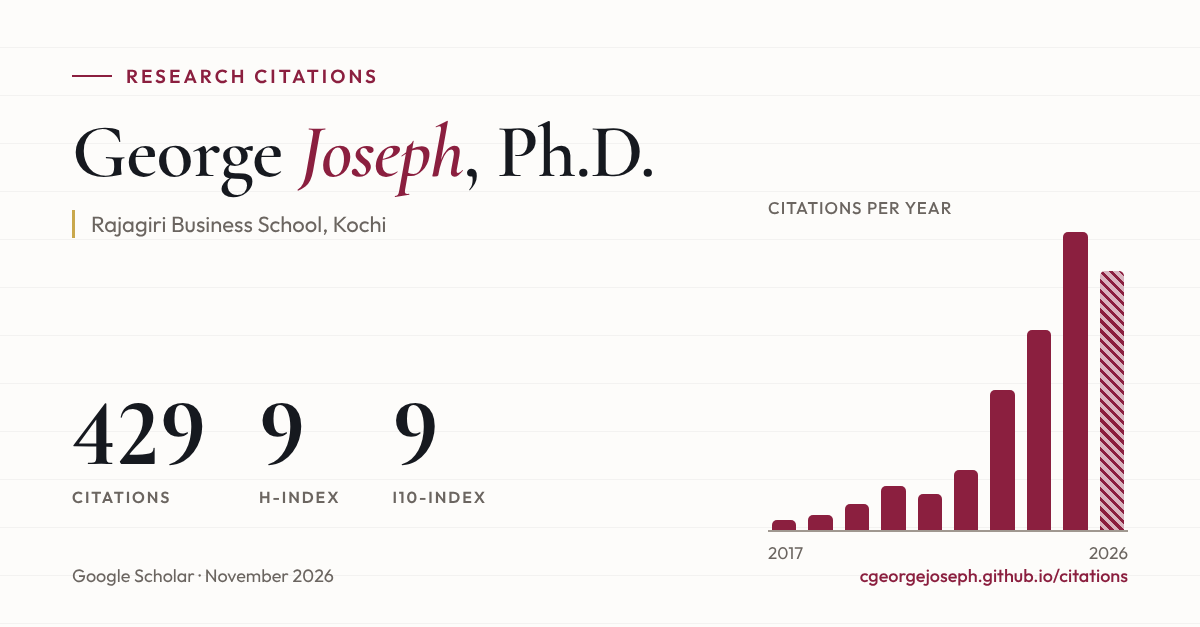
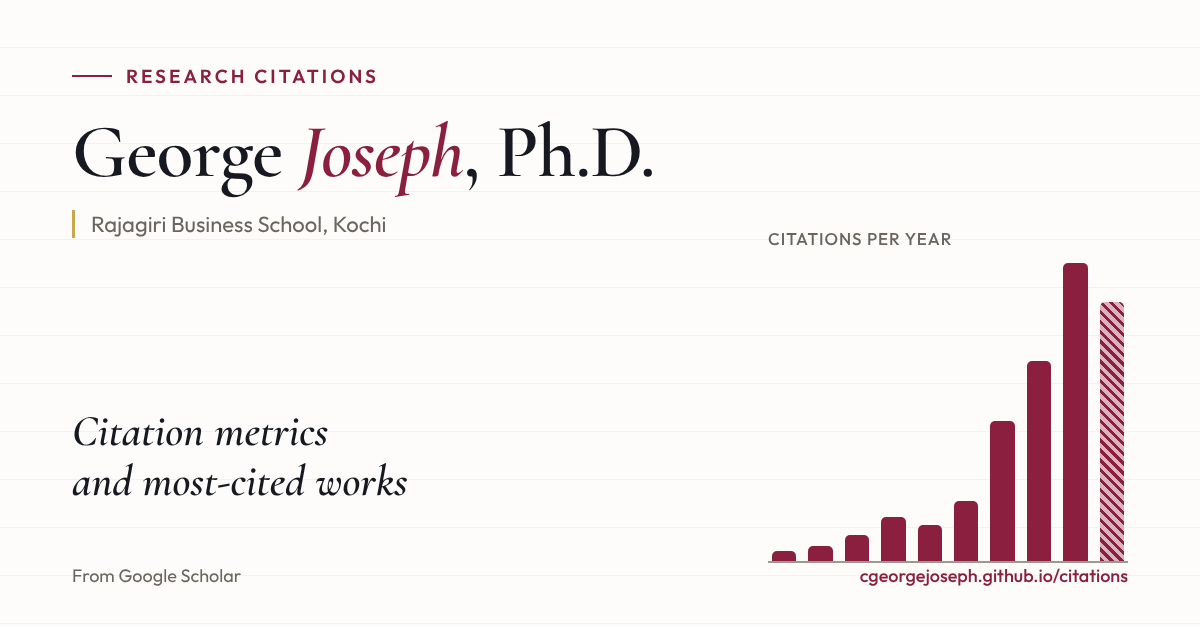
Make LinkedIn preview card number-free
Claude-Session: https://claude.ai/code/session_01NrjN6PAEctgUKyzytdnX99

diff --git a/citations/index.html b/citations/index.html
@@ -6,10 +6,10 @@
 <meta property="og:type" content="website">
 <meta property="og:url" content="https://cgeorgejoseph.github.io/citations/">
 <meta property="og:title" content="Research citations | George Joseph, Ph.D.">
-<meta property="og:description" content="George Joseph, Ph.D. (Rajagiri Business School, Kochi): 429 Google Scholar citations, h-index 9, i10-index 9. Citations by year and most-cited works, updated 17 November 2026.">
+<meta property="og:description" content="Citation metrics and most-cited works of George Joseph, Ph.D., Rajagiri Business School, Kochi, from Google Scholar.">
 <meta property="og:image" content="https://cgeorgejoseph.github.io/citations/og.png">
 <meta property="og:image:width" content="1200"><meta property="og:image:height" content="627">
-<meta property="og:image:alt" content="George Joseph, Ph.D.: 429 Google Scholar citations, h-index 9, i10-index 9">
+<meta property="og:image:alt" content="George Joseph, Ph.D.: research citations, with a chart of citations per year">
 <meta name="twitter:card" content="summary_large_image">
 <link rel="preconnect" href="https://fonts.googleapis.com"><link rel="preconnect" href="https://fonts.gstatic.com" crossorigin>
 <link href="https://fonts.googleapis.com/css2?family=Cormorant+Garamond:ital,wght@0,400;0,600;0,700;1,400&family=Outfit:wght@300;400;500;600&display=swap" rel="stylesheet">

diff --git a/_tools/render_og.py b/_tools/render_og.py
@@ -49,6 +49,7 @@ h1{{font-family:C;font-weight:600;font-size:76px;line-height:1.02;margin-top:26p
 h1 em{{color:#8b1f3f}}
 .aff{{font-size:22px;color:#6b6560;margin-top:18px;border-left:3px solid #c9a84c;padding-left:16px}}
 .left{{display:flex;flex-direction:column}}
+.what{{font-family:C;font-weight:600;font-style:italic;font-size:44px;line-height:1.15;color:#16191f}}
 .stats{{display:flex;gap:52px;margin-top:auto;margin-bottom:56px}}
 .v{{font-family:C;font-weight:700;font-size:96px;line-height:.9;font-variant-numeric:lining-nums;font-feature-settings:'lnum' 1}}
 .l{{font-size:16px;font-weight:600;letter-spacing:.12em;text-transform:uppercase;color:#6b6560;margin-top:10px}}
@@ -64,14 +65,10 @@ h1 em{{color:#8b1f3f}}
 <div class="tag">Research citations</div>
 <h1>George <em>Joseph</em>, Ph.D.</h1>
 <div class="aff">Rajagiri Business School, Kochi</div>
-<div class="stats">
-<div><div class="v">{t['citations']['all']}</div><div class="l">Citations</div></div>
-<div><div class="v">{t['h_index']['all']}</div><div class="l">h-index</div></div>
-<div><div class="v">{t['i10_index']['all']}</div><div class="l">i10-index</div></div>
-</div></div>
+<div class="stats"><div class="what">Citation metrics<br>and most-cited works</div></div></div>
 <div class="right"><div class="ct">Citations per year</div><div class="chart">{bars}</div>
-<div class="cap"><span>{py[0]['year']}</span><span>{py[-1]['year']}</span></div></div></div>
-<div class="foot"><span>Google Scholar · {upd}</span><b>cgeorgejoseph.github.io/citations</b></div>
+</div></div>
+<div class="foot"><span>From Google Scholar</span><b>cgeorgejoseph.github.io/citations</b></div>
 </body></html>"""
     tmp = os.path.join(ROOT, "_tools", "_og.html")
     open(tmp, "w", encoding="utf-8").write(page)

diff --git a/_tools/build_citations.py b/_tools/build_citations.py
@@ -162,10 +162,10 @@ def build():
 <meta property="og:type" content="website">
 <meta property="og:url" content="{SITE}/citations/">
 <meta property="og:title" content="Research citations | George Joseph, Ph.D.">
-<meta property="og:description" content="{esc(desc)}">
+<meta property="og:description" content="Citation metrics and most-cited works of George Joseph, Ph.D., Rajagiri Business School, Kochi, from Google Scholar.">
 <meta property="og:image" content="{SITE}/citations/og.png">
 <meta property="og:image:width" content="1200"><meta property="og:image:height" content="627">
-<meta property="og:image:alt" content="George Joseph, Ph.D.: {c_all} Google Scholar citations, h-index {tot['h_index']['all']}, i10-index {tot['i10_index']['all']}">
+<meta property="og:image:alt" content="George Joseph, Ph.D.: research citations, with a chart of citations per year">
 <meta name="twitter:card" content="summary_large_image">
 <link rel="preconnect" href="https://fonts.googleapis.com"><link rel="preconnect" href="https://fonts.gstatic.com" crossorigin>
 <link href="https://fonts.googleapis.com/css2?family=Cormorant+Garamond:ital,wght@0,400;0,600;0,700;1,400&family=Outfit:wght@300;400;500;600&display=swap" rel="stylesheet">
